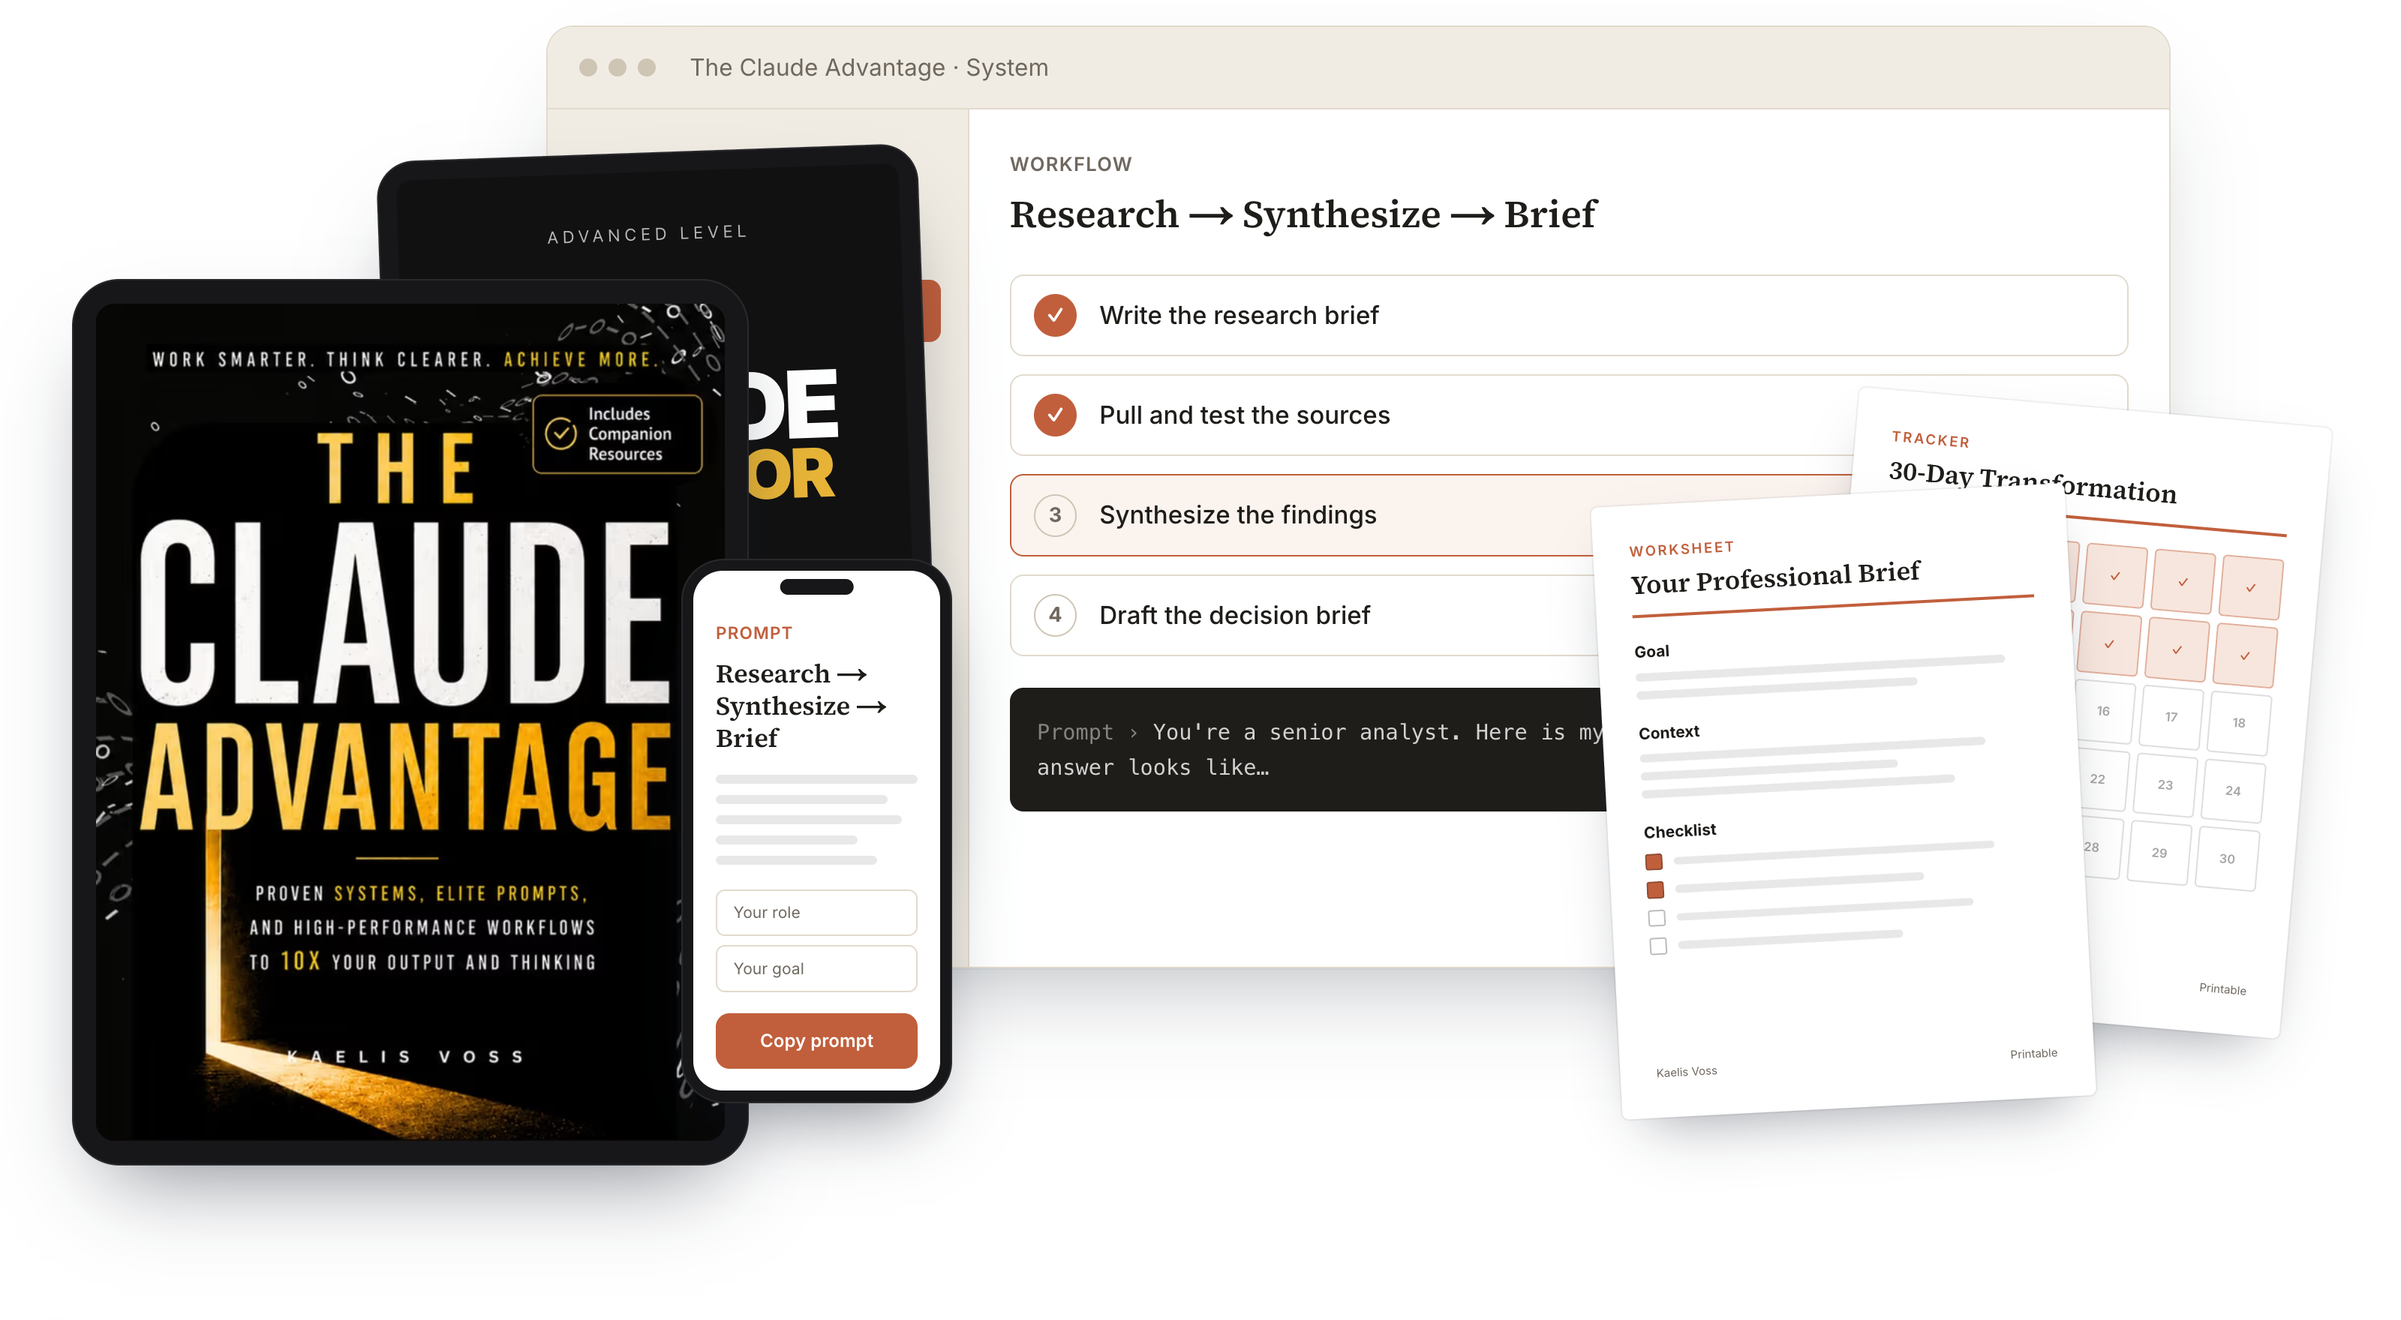
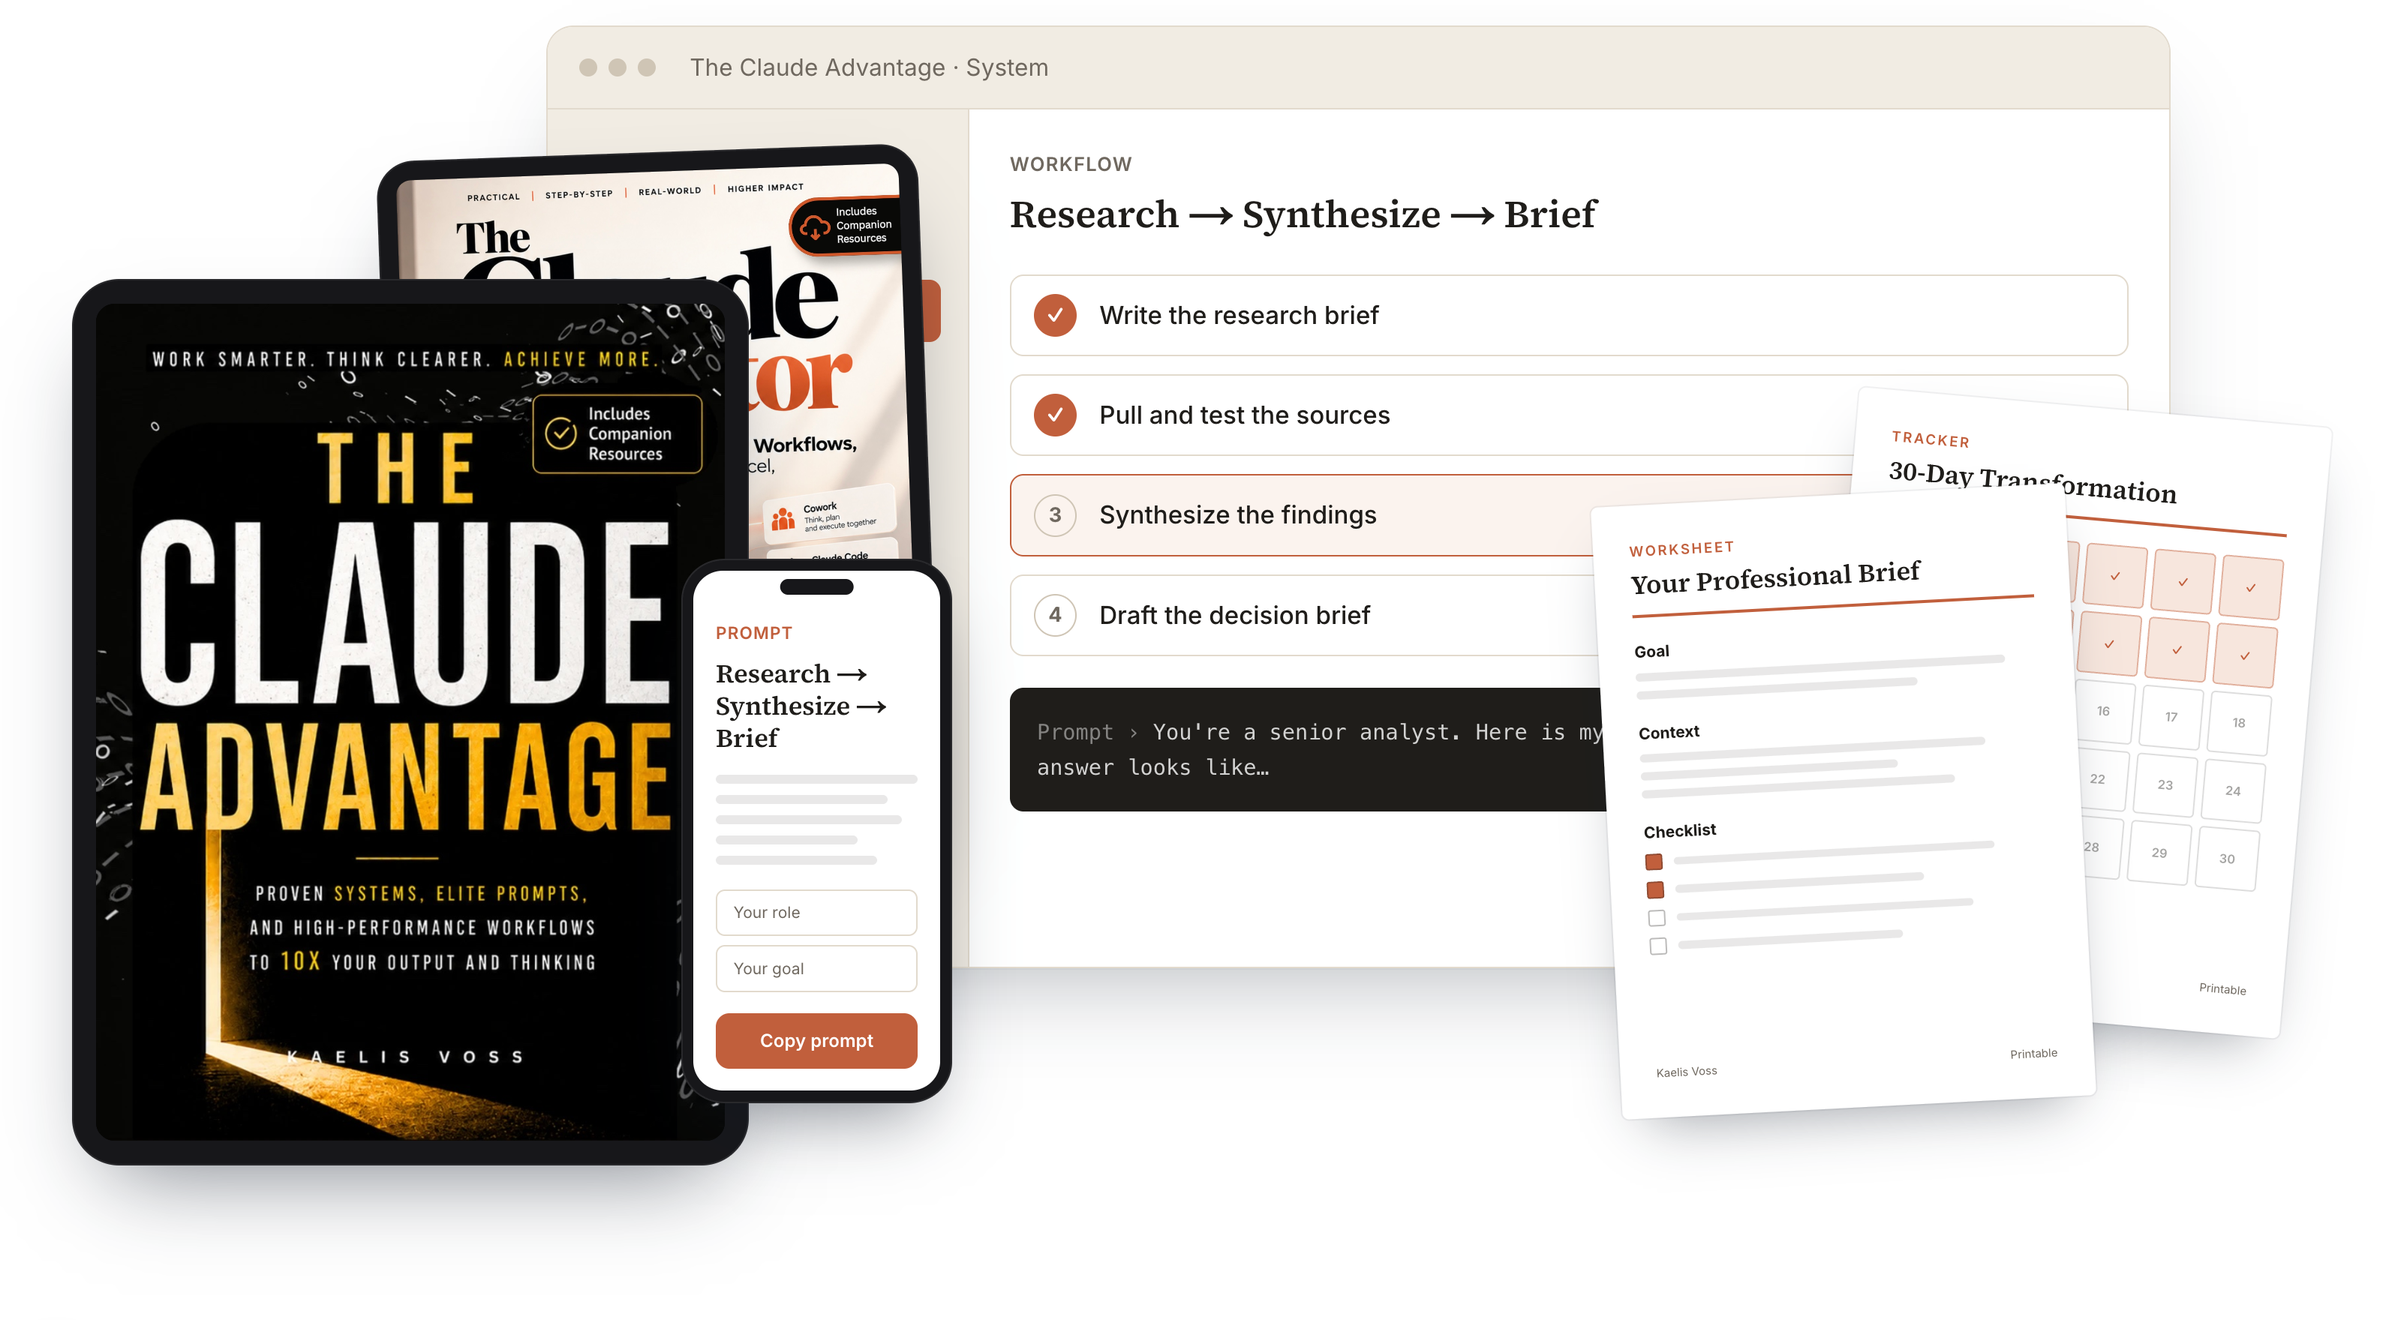
Sell both Claude books together in the Claude Book tier
The $24.99 Book tier now includes The Claude Advantage and The Claude
Operator. The Operator PDF is its own item so Book buyers don't get the
member area; the Operator track stays in Pro. The real Operator cover
replaces the drawn one in the mockups and on the pricing card.

Changed region(s): [[0.1562, 0.125, 0.4062, 0.4375]]

diff --git a/src/lib/products.ts b/src/lib/products.ts
@@ -4,7 +4,7 @@ export type Currency = "INR" | "USD" | "GBP";
 // What a buyer can own. Customers never buy these one by one: they buy a tier
 // (below), and each tier is a set of these. "toolkit" and "claude-system" are
 // the implementation systems inside Complete; there is no standalone Toolkit.
-export type ProductId = "book" | "toolkit" | "copilot-pro" | "claude-book" | "claude-system" | "claude-operator";
+export type ProductId = "book" | "toolkit" | "copilot-pro" | "claude-book" | "claude-operator-book" | "claude-system" | "claude-operator";
 
 export type Delivery =
   | { kind: "file"; file: string; filename: string }
@@ -61,6 +61,16 @@ export const products: Record<ProductId, Product> = {
     // Put claude-advantage.pdf in private-files/ before selling it.
     ready: true,
   },
+  // Sold only inside the Claude Book tier, together with The Claude Advantage.
+  "claude-operator-book": {
+    id: "claude-operator-book",
+    name: "The Claude Operator (Book)",
+    short: "The advanced companion guide (PDF)",
+    price: { USD: 0, GBP: 0, INR: 0 },
+    // Put claude-operator.pdf in private-files/ before selling it.
+    delivery: { kind: "file", file: "claude-operator.pdf", filename: "The-Claude-Operator.pdf" },
+    ready: true,
+  },
   "claude-system": {
     id: "claude-system",
     name: "The Claude Advantage™ implementation system",
@@ -74,11 +84,11 @@ export const products: Record<ProductId, Product> = {
   },
   "claude-operator": {
     id: "claude-operator",
-    name: "The Claude Advantage™ Pro systems, with The Claude Operator",
+    name: "The Claude Advantage™ Pro systems",
     short: "Included in Pro",
     price: { USD: 6000, GBP: 5000, INR: 499900 },
-    // The Claude Operator PDF, plus the Pro track in the member area. Put claude-operator.pdf in private-files/.
-    delivery: { kind: "file", file: "claude-operator.pdf", filename: "The-Claude-Operator.pdf" },
+    // The Operator track and the Pro systems in the member area at /claude-advantage/members.
+    delivery: { kind: "access", note: "Open the member area: the Operator track and your Pro systems." },
     ready: true,
   },
 };
@@ -89,13 +99,15 @@ export type TierId = "book" | "complete" | "pro" | "claude-book" | "claude-compl
 export type Tier = { id: TierId; name: string; label: string; items: ProductId[]; price: Record<Currency, number> };
 
 const COPILOT_COMPLETE: ProductId[] = ["book", "toolkit"];
-const CLAUDE_COMPLETE: ProductId[] = ["claude-book", "claude-system"];
+// The Claude Book tier is both books: The Claude Advantage and The Claude Operator.
+const CLAUDE_BOOKS: ProductId[] = ["claude-book", "claude-operator-book"];
+const CLAUDE_COMPLETE: ProductId[] = [...CLAUDE_BOOKS, "claude-system"];
 
 export const tiers: Record<TierId, Tier> = {
   book: { id: "book", name: "The Microsoft Copilot Advantage™ Book", label: "Book", items: ["book"], price: products.book.price },
   complete: { id: "complete", name: "The Microsoft Copilot Advantage™ Complete", label: "Complete", items: COPILOT_COMPLETE, price: { USD: 9900, GBP: 7900, INR: 699900 } },
   pro: { id: "pro", name: "The Microsoft Copilot Advantage™ Pro", label: "Pro", items: [...COPILOT_COMPLETE, "copilot-pro"], price: { USD: 14900, GBP: 11900, INR: 1099900 } },
-  "claude-book": { id: "claude-book", name: "The Claude Advantage™ Book", label: "Book", items: ["claude-book"], price: products["claude-book"].price },
+  "claude-book": { id: "claude-book", name: "The Claude Advantage™ Book, with The Claude Operator", label: "Book", items: CLAUDE_BOOKS, price: products["claude-book"].price },
   "claude-complete": { id: "claude-complete", name: "The Claude Advantage™ Complete", label: "Complete", items: CLAUDE_COMPLETE, price: { USD: 11900, GBP: 8900, INR: 899900 } },
   "claude-pro": { id: "claude-pro", name: "The Claude Advantage™ Pro", label: "Pro", items: [...CLAUDE_COMPLETE, "claude-operator"], price: { USD: 17900, GBP: 13900, INR: 1399900 } },
   "both-complete": { id: "both-complete", name: "Both Systems: Complete", label: "Both Complete", items: [...COPILOT_COMPLETE, ...CLAUDE_COMPLETE], price: { USD: 16900, GBP: 12900, INR: 1299900 } },

diff --git a/src/app/(site)/thank-you/page.tsx b/src/app/(site)/thank-you/page.tsx
@@ -12,6 +12,12 @@ import { site } from "@/lib/site";
 
 export const metadata: Metadata = { title: "Your library", robots: { index: false } };
 
+const covers: Partial<Record<string, string>> = {
+  book: "/images/cover.jpg",
+  "claude-book": "/images/claude-cover.jpg",
+  "claude-operator-book": "/claude-operator-cover.jpg",
+};
+
 export default async function ThankYou({ searchParams }: { searchParams: Promise<{ t?: string }> }) {
   const { t } = await searchParams;
   const grant = readLibraryToken(t);
@@ -51,8 +57,8 @@ export default async function ThankYou({ searchParams }: { searchParams: Promise
                 const p = products[id];
                 return (
                   <li key={id} className="card flex flex-col gap-5 p-6 sm:flex-row sm:items-center">
-                    {id === "book" || id === "claude-book" ? (
-                      <Image src={id === "book" ? "/images/cover.jpg" : "/images/claude-cover.jpg"} alt="" width={64} height={84} className="rounded-md shadow-soft" />
+                    {covers[id] ? (
+                      <Image src={covers[id]} alt="" width={64} height={84} className="rounded-md object-cover shadow-soft" />
                     ) : (
                       <span className="icon-tile h-16 w-16 shrink-0">
                         {p.delivery.kind === "file" ? <Icon.doc className="h-7 w-7" /> : <Icon.video className="h-7 w-7" />}
@@ -66,11 +72,6 @@ export default async function ThankYou({ searchParams }: { searchParams: Promise
                       <a href={grant && t ? `/members/enter?t=${encodeURIComponent(t)}` : lines[lineOfProduct(id)].members} className="btn-primary !py-3">
                         Open {lines[lineOfProduct(id)].name.replace(/^The /, "the ")} <Icon.arrow className="h-4 w-4" />
                       </a>
-                    ) : id === "claude-operator" ? (
-                      <span className="flex flex-col gap-2 sm:items-end">
-                        <a href={`/api/download/${id}${query}`} className="btn-primary !py-3"><Icon.download className="h-5 w-5" /> Download</a>
-                        <a href={grant && t ? `/members/enter?t=${encodeURIComponent(t)}` : "/claude-advantage/members/operator"} className="text-sm font-semibold text-accent">Open the Operator track →</a>
-                      </span>
                     ) : p.delivery.kind === "file" ? (
                       <a href={`/api/download/${id}${query}`} className="btn-primary !py-3">
                         <Icon.download className="h-5 w-5" /> Download

diff --git a/src/app/(site)/claude-advantage/page.tsx b/src/app/(site)/claude-advantage/page.tsx
@@ -63,7 +63,7 @@ const ecosystem = [
   ["Design Workflows", "Three directions, the real thing, then a critique."],
   ["Research Systems", "Frame, research, synthesize, deliver: with sources."],
   ["30-Day Transformation", "One task a day, from user to power user."],
-  ["Advanced AI Playbooks", "In Pro: The Claude Operator, with skills, workflows and your AI Chief of Staff."],
+  ["The Claude Operator", "The advanced companion book, included with the Book: Claude Code, design, Excel, PowerPoint and more."],
 ];
 
 const audience = ["Professionals", "Executives", "Consultants", "Entrepreneurs", "Creators", "Researchers", "Analysts", "Developers", "Knowledge workers"];
@@ -73,7 +73,7 @@ const faqs = [
   ...sharedFaqs,
   { q: "I already use Claude. Is this for me?", a: "Yes. It's built for people who use Claude but sense they're getting a fraction of its value. The system moves you from asking questions to running repeatable workflows." },
   { q: "Which Claude plan do I need?", a: "Most of the system works on any Claude plan. Some features, such as Projects, research tools, Claude Code, design and agentic features, depend on your plan and region, and change over time. Each workflow says what it needs." },
-  { q: "Where does The Claude Operator fit?", a: "The Claude Operator is the advanced companion book. It's part of Pro, alongside the advanced research, project and agentic workflow systems." },
+  { q: "Where does The Claude Operator fit?", a: "Every tier includes it. The Book tier gives you both books, The Claude Advantage and The Claude Operator, for one price. Pro adds the Operator track in the member area: skills, workflows and your AI Chief of Staff." },
   { q: "What happens when Claude changes?", a: "The system teaches durable methods rather than button locations. Claude's features and their names change over time, so interface-specific details are updated in the member area as Claude evolves." },
 ];
 

diff --git a/src/components/Mockups.tsx b/src/components/Mockups.tsx
@@ -1,6 +1,5 @@
 import Image from "next/image";
 import type { CSSProperties, ReactNode } from "react";
-import { OperatorCoverArt } from "./claude/BookCover";
 import type { LineId } from "@/lib/lines";
 
 // Product mockups for digital products: the ebooks on a tablet, the member
@@ -9,22 +8,16 @@ import type { LineId } from "@/lib/lines";
 
 export type EbookId = "copilot" | "claude" | "operator";
 
-const covers: Record<Exclude<EbookId, "operator">, { src: string; w: number; h: number; alt: string }> = {
-  copilot: { src: "/images/cover.jpg", w: 1100, h: 1392, alt: "The Microsoft Copilot Advantage ebook cover" },
-  claude: { src: "/images/claude-cover.jpg", w: 972, h: 1269, alt: "The Claude Advantage ebook cover" },
+const covers: Record<EbookId, { src: string; alt: string }> = {
+  copilot: { src: "/images/cover.jpg", alt: "The Microsoft Copilot Advantage ebook cover" },
+  claude: { src: "/images/claude-cover.jpg", alt: "The Claude Advantage ebook cover" },
+  operator: { src: "/claude-operator-cover.jpg", alt: "The Claude Operator ebook cover" },
 };
 
 const cq: CSSProperties = { containerType: "inline-size" };
 
 /** A cover, filling its box. */
 export function Cover({ book, sizes = "300px", priority = false }: { book: EbookId; sizes?: string; priority?: boolean }) {
-  if (book === "operator") {
-    return (
-      <div role="img" aria-label="The Claude Operator ebook cover" className="h-full w-full" style={cq}>
-        <div className="h-full text-[6cqw]"><OperatorCoverArt /></div>
-      </div>
-    );
-  }
   const c = covers[book];
   return <Image src={c.src} alt={c.alt} fill sizes={sizes} priority={priority} className="object-cover object-top" />;
 }

diff --git a/src/components/Pricing.tsx b/src/components/Pricing.tsx
@@ -68,7 +68,15 @@ export async function PricingTiers({ line }: { line: LineId }) {
             <p className={`text-xs font-bold uppercase tracking-[0.16em] ${recommended ? "text-accent" : "text-ink-muted"}`}>{t.label}</p>
             <p className="mt-1 text-sm font-semibold text-ink-soft">{copy.formula}</p>
           </div>
-          {id === bookId && <Ebook book={line === "claude" ? "claude" : "copilot"} className="w-[52px] shrink-0" sizes="52px" />}
+          {id === bookId &&
+            (line === "claude" ? (
+              <span className="flex shrink-0 items-end">
+                <Ebook book="claude" className="w-[52px]" sizes="52px" />
+                <Ebook book="operator" className="-ml-3 w-[44px]" sizes="44px" />
+              </span>
+            ) : (
+              <Ebook book="copilot" className="w-[52px] shrink-0" sizes="52px" />
+            ))}
         </div>
         <h3 className="mt-4 text-xl">{copy.tagline}</h3>
         <p className="mt-5 font-display text-5xl font-semibold tracking-tight">{formatPrice(t.price[currency], currency)}</p>

diff --git a/src/lib/offer.ts b/src/lib/offer.ts
@@ -70,10 +70,12 @@ export const tierCopy: Record<Exclude<TierId, "both-complete" | "both-pro">, Tie
   },
   "claude-book": {
     ...book,
+    cta: "Get Both Books",
+    intro: "Two books, one price:",
     bullets: [
-      "The complete guide to working with Claude",
+      "The Claude Advantage: the complete guide to working with Claude",
+      "The Claude Operator: advanced workflows with Claude Code, design, Excel and PowerPoint",
       "Prompting, research, writing and analysis",
-      "Projects, documents, Claude Code and design",
       "Practical, worked examples",
     ],
   },
@@ -111,7 +113,7 @@ export const tierCopy: Record<Exclude<TierId, "both-complete" | "both-pro">, Tie
       "Professional role systems",
       "Advanced prompt architecture",
       "Advanced workflow builder",
-      "The Claude Operator, the advanced companion book",
+      "The Operator track: skills, workflows and your AI Chief of Staff",
       "Major future updates",
       "Advanced Research System",
       "Advanced project workflows",

diff --git a/src/lib/content.ts b/src/lib/content.ts
@@ -46,7 +46,7 @@ export const offerCopy: Record<StepId, OfferCopy> = {
   "claude-pro-upgrade": {
     eyebrow: "Upgrade to Pro",
     headline: "Build your personal AI operating system.",
-    lead: "Pro adds advanced research and project systems, the Claude Code workflow library, agentic workflow architecture and professional role systems, with The Claude Operator. You pay only the difference.",
+    lead: "Pro adds advanced research and project systems, the Claude Code workflow library, agentic workflow architecture, professional role systems and the Operator track in your member area. You pay only the difference.",
     cta: "Yes, upgrade to Pro",
     decline: "No thanks, Complete is enough",
   },

diff --git a/src/components/CheckoutProvider.tsx b/src/components/CheckoutProvider.tsx
@@ -23,7 +23,7 @@ const blurb: Record<TierId, string> = {
   book: "Learn · the complete guide (PDF)",
   complete: "Learn + Implement · the Book and the full implementation system",
   pro: "Build + Systemize · Complete, plus the advanced work systems",
-  "claude-book": "Learn · the complete guide (PDF)",
+  "claude-book": "Learn · The Claude Advantage and The Claude Operator (PDF)",
   "claude-complete": "Learn + Implement · the Book and the full implementation system",
   "claude-pro": "Build + Systemize · Complete, plus the advanced work systems",
   "both-complete": "Both Complete systems: Copilot and Claude",

diff --git a/README.md b/README.md
@@ -56,7 +56,7 @@ products together. US visitors pay in USD and UK visitors in GBP:
 | | Book | Complete | Pro |
 |---|---|---|---|
 | The Microsoft Copilot Advantage | $24.99 / £19.99 | $99 / £79 | $149 / £119 |
-| The Claude Advantage | $24.99 / £19.99 | $119 / £89 | $179 / £139 |
+| The Claude Advantage (Book = The Claude Advantage + The Claude Operator) | $24.99 / £19.99 | $119 / £89 | $179 / £139 |
 | Both systems | | $169 / £129 | $249 / £199 |
 
 Tiers, prices and which products are ready live in `src/lib/products.ts`; the words on every pricing card come from
